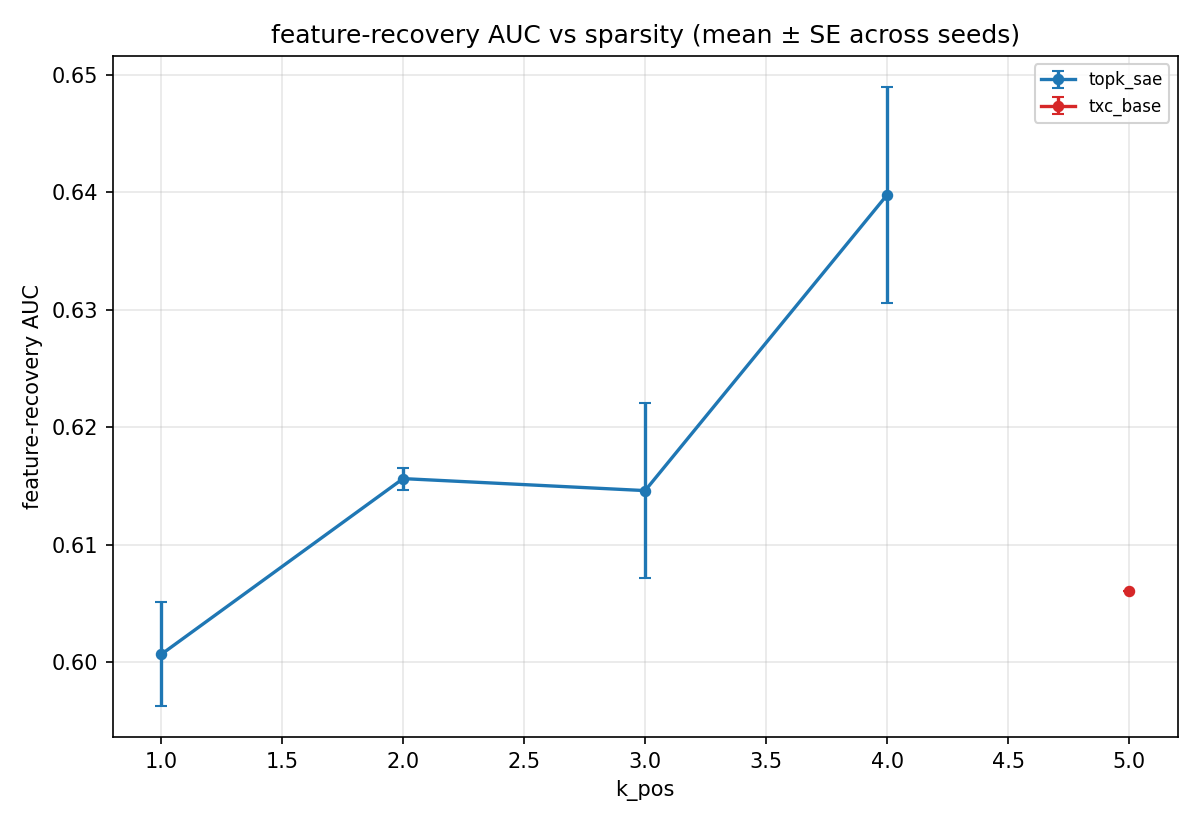
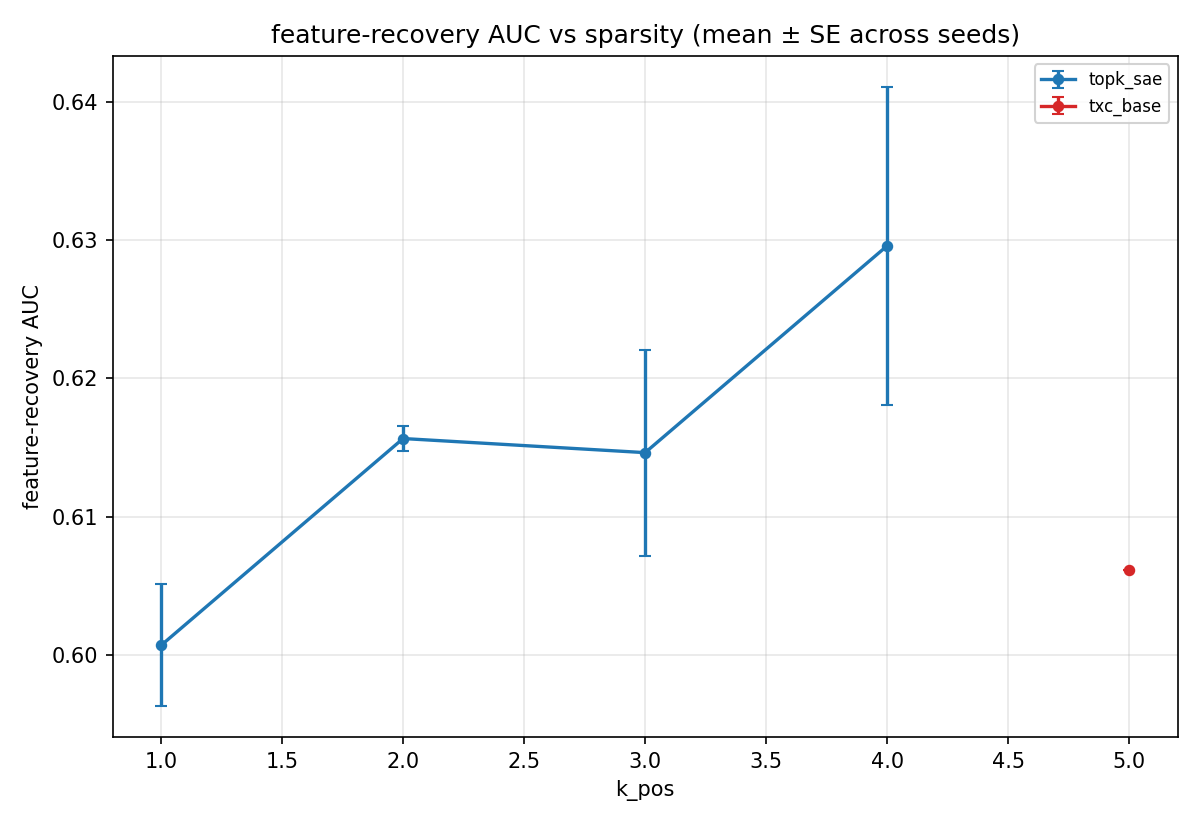
c1+c2 paper auto: refresh synthetic bundles (c1=, c2= leaderboard rows)
Auto-generated by purified/scripts/synthetic_paper_renderer.py.
Inputs: results/leaderboard.jsonl filtered to component in (c1,c2)
with eval_cfg._full_suite=true (the c{1,2}_synthetic_*_full driver flag).

diff --git a/purified/docs/components/c1_paper_results.md b/purified/docs/components/c1_paper_results.md
@@ -1,6 +1,6 @@
 # C1 Synthetic TopK — paper-ready results (auto-generated)
 
-_Last refreshed: 2026-05-06T23:41:46+00:00_
+_Last refreshed: 2026-05-07T00:06:50+00:00_
 
 ## Setup
 
@@ -9,13 +9,13 @@ _Last refreshed: 2026-05-06T23:41:46+00:00_
 - Metric: feature-recovery AUC against the 20 ground-truth orthogonal directions (per-feature max cosine ≥ τ, integrated over τ ∈ [0, 1]).
 - Driver: `experiments/c1_synthetic_topk_full/run.py` (routes through `temp_bench.data.toy_full.api`, isolated from agent_filler's `toy_markov_n20_d40` cache via distinct `act_cache_key`).
 
-Currently 18 cells across 2 (arch, T) configurations; seeds-per-cell range = [1, 2].
+Currently 19 cells across 2 (arch, T) configurations; seeds-per-cell range = [1, 3].
 
 ## Headline (peak AUC over k_pos)
 
 | arch | T | k\* | AUC (mean ± SE) | n seeds |
 |------|---|----|---------------------------|---------|
-| `topk_sae` | — | 4 | 0.640 ± 0.009 | 2 |
+| `topk_sae` | — | 4 | 0.630 ± 0.011 | 3 |
 | `txc_base` | — | 5 | 0.606 ± 0.000 | 1 |
 
 ## AUC vs k_pos
@@ -26,5 +26,5 @@ Currently 18 cells across 2 (arch, T) configurations; seeds-per-cell range = [1,
 
 | arch (T) | k=1 | k=2 | k=3 | k=4 | k=5 |
 |---|---|---|---|---|---|
-| `topk_sae` | 0.601 | 0.616 | 0.615 | 0.640 | — |
+| `topk_sae` | 0.601 | 0.616 | 0.615 | 0.630 | — |
 | `txc_base` | — | — | — | — | 0.606 |

diff --git a/purified/docs/components/c2_paper_results.md b/purified/docs/components/c2_paper_results.md
@@ -1,6 +1,6 @@
 # C2 Synthetic Coupled — paper-ready results (auto-generated)
 
-_Last refreshed: 2026-05-06T23:41:46+00:00_
+_Last refreshed: 2026-05-07T00:06:51+00:00_
 
 ## Setup
 
